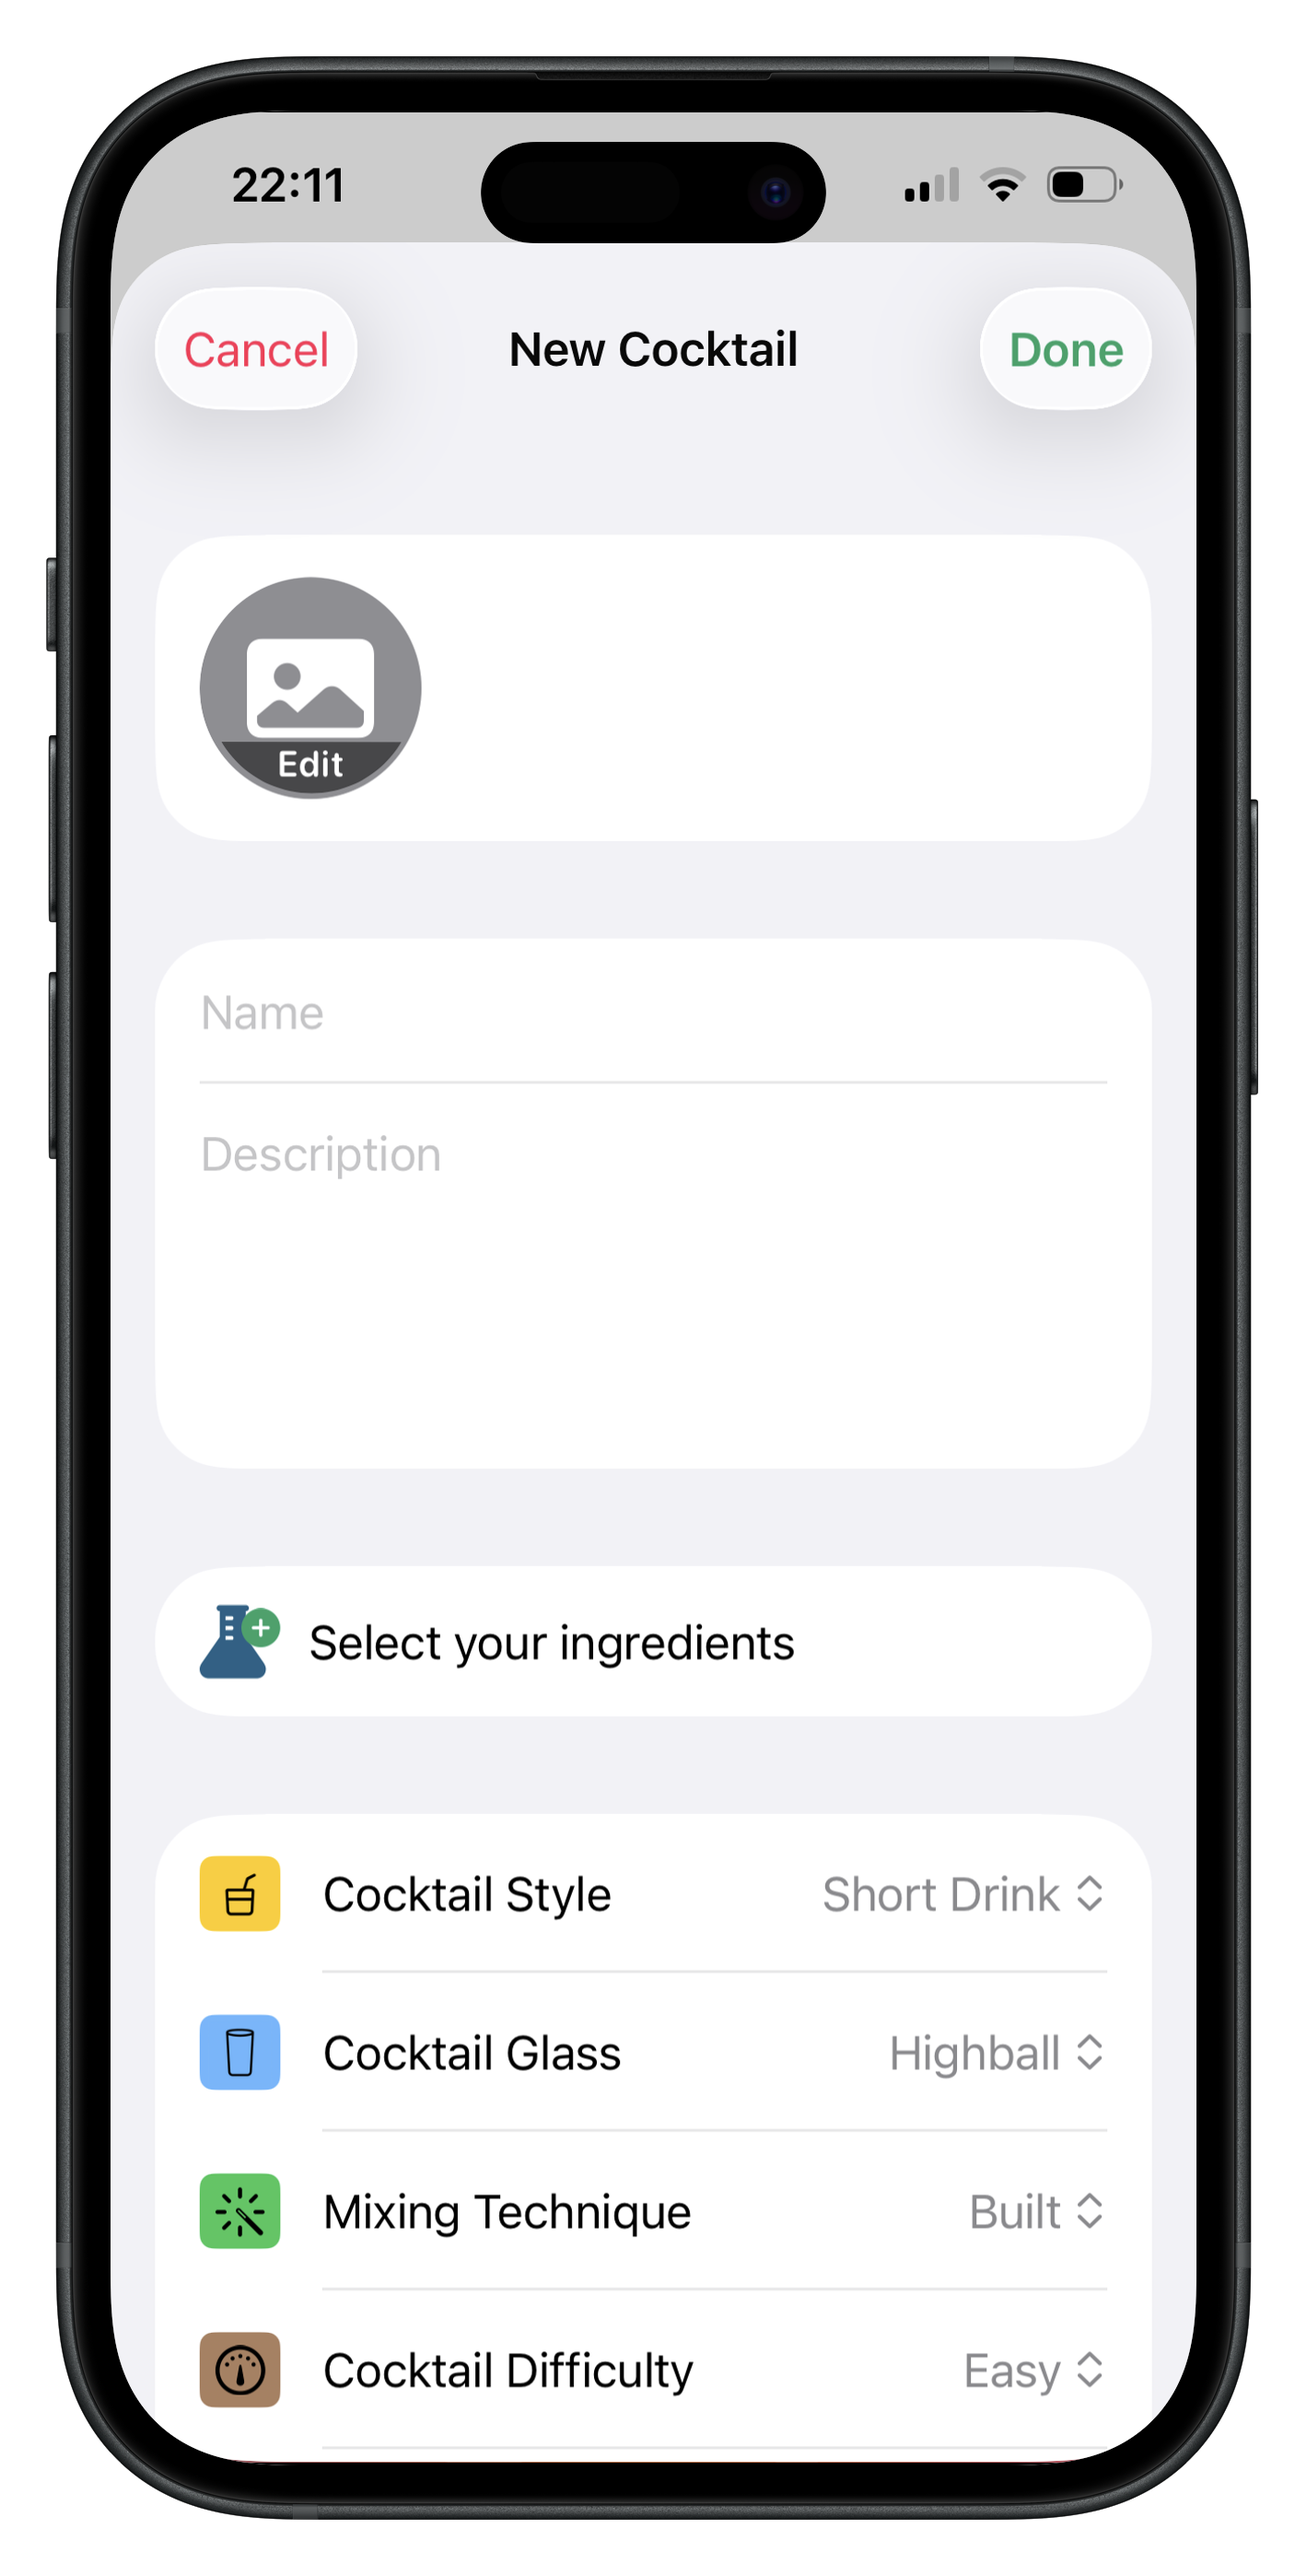
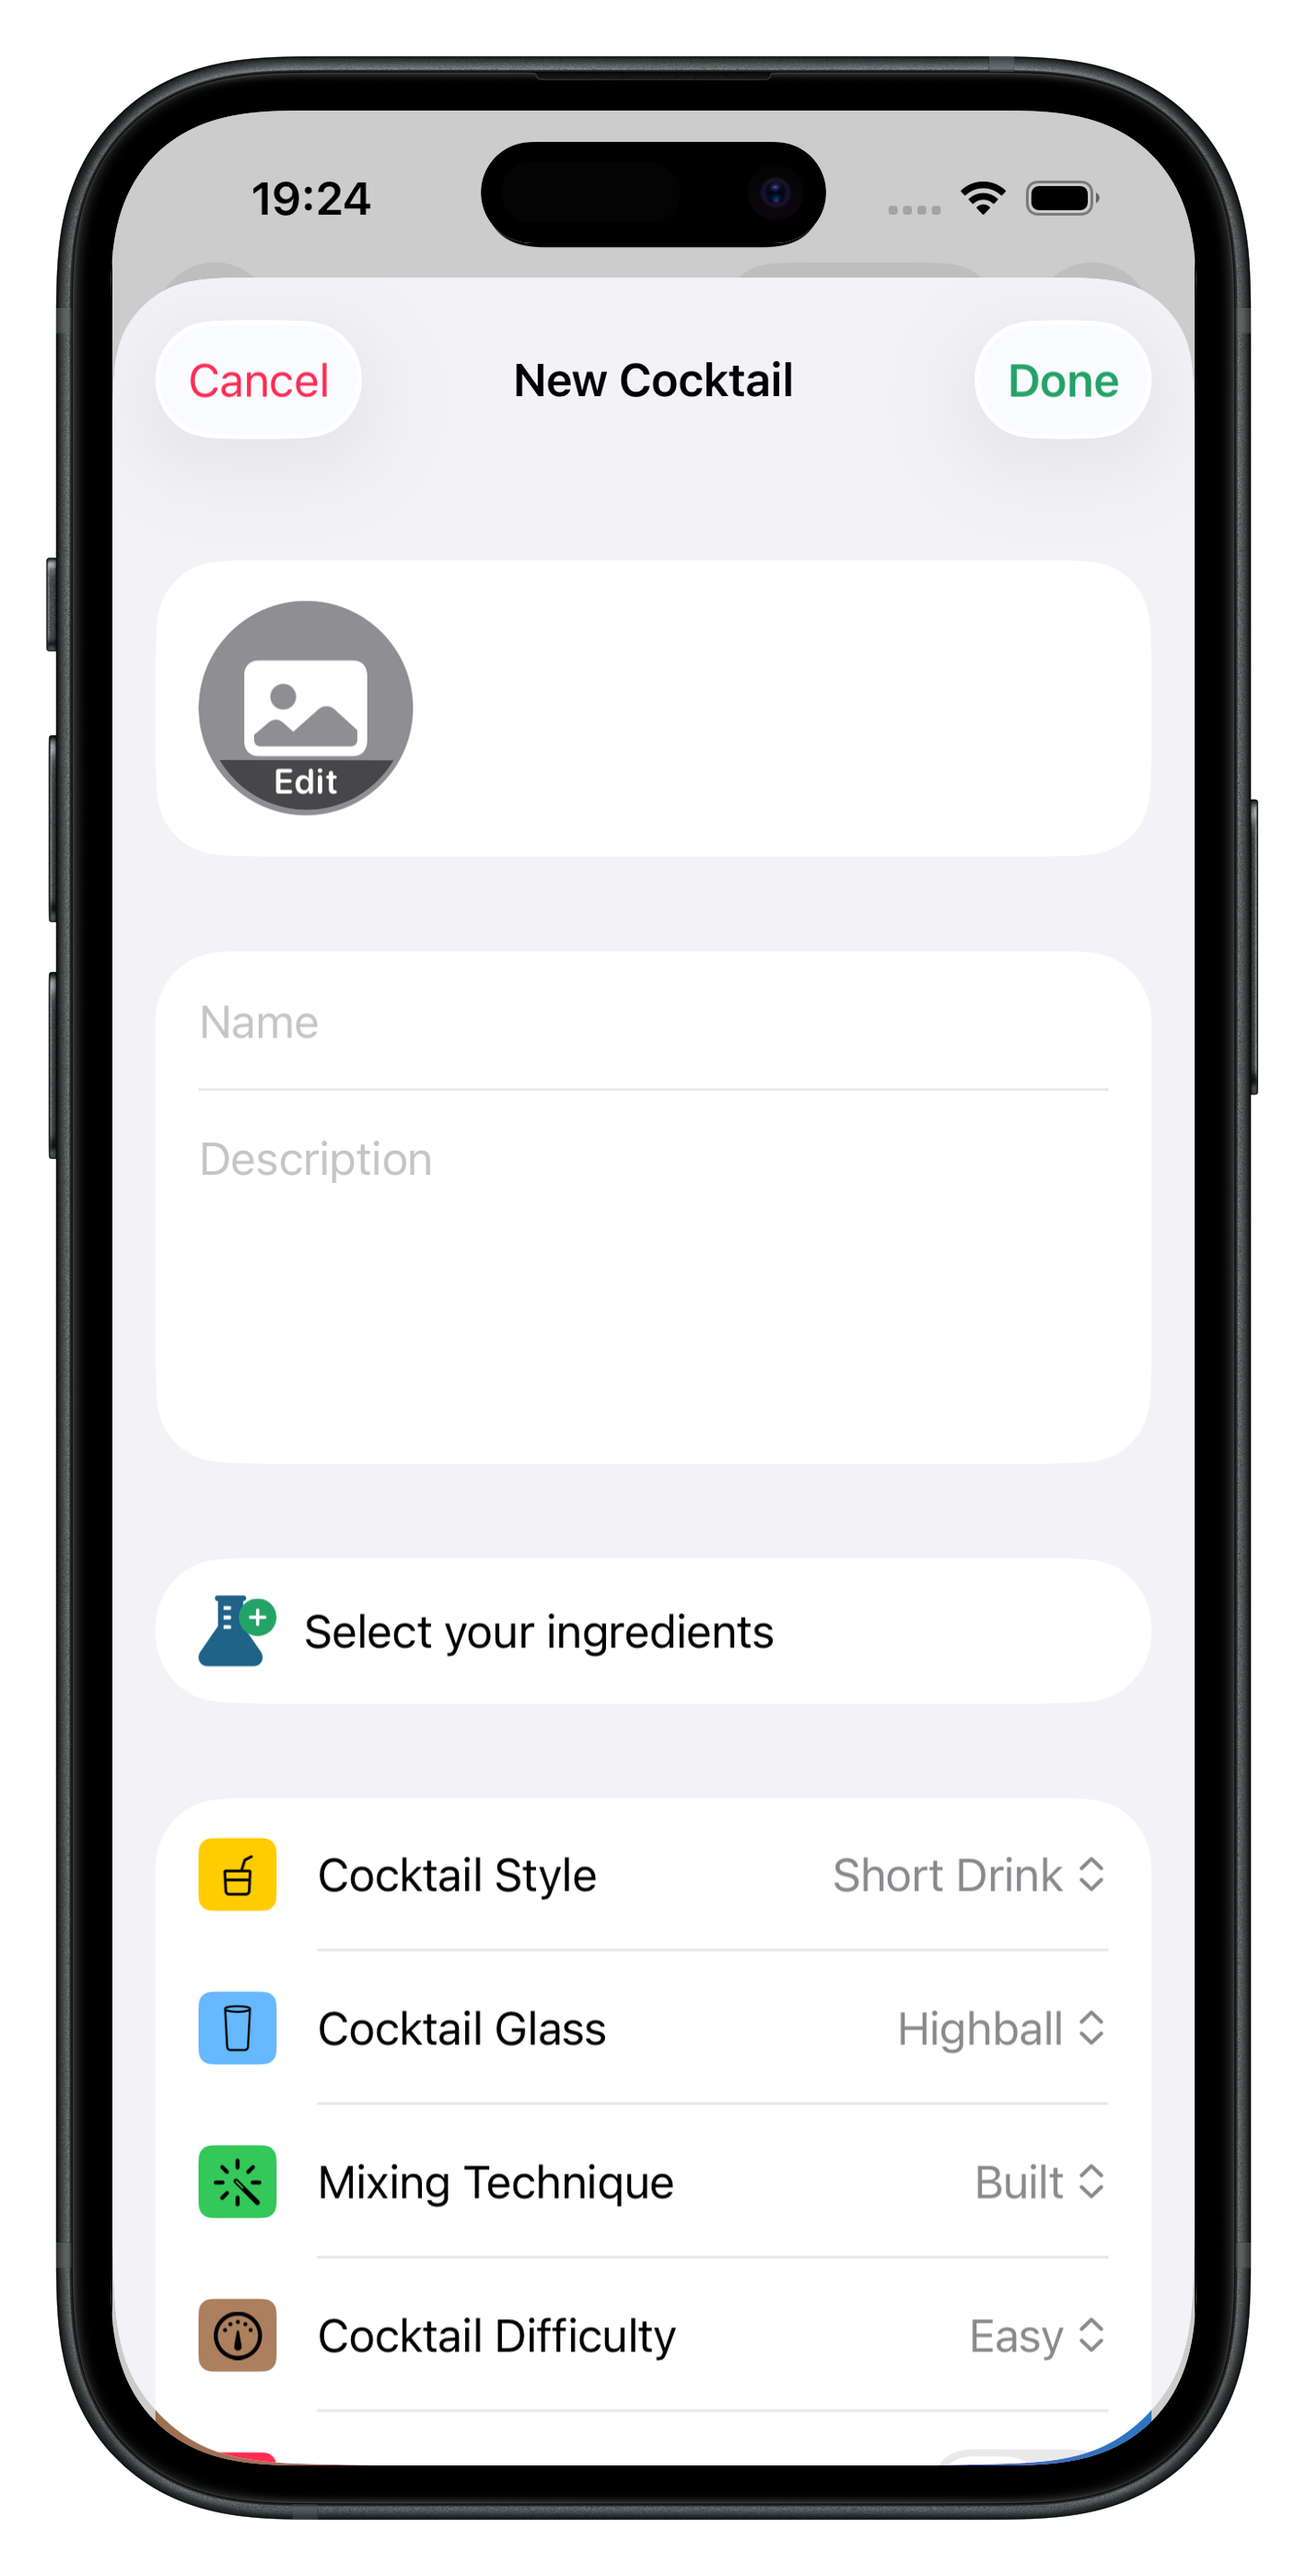
Update screenshots and README with portfolio images

diff --git a/README.md b/README.md
@@ -49,6 +49,10 @@ Built with a robust **Clean Architecture** approach, ensuring:
 - **Maintainability**: Scalable and readable codebase
 - **SOLID Principles**: Following best practices for iOS development
 
+<div align="center">
+<img src="screenshots/cleanarchi.png" width="600" alt="Clean Architecture Diagram">
+</div>
+
 ### **SwiftData Integration**
 
 The app leverages **SwiftData** with a custom abstraction layer to keep data logic out of views:
